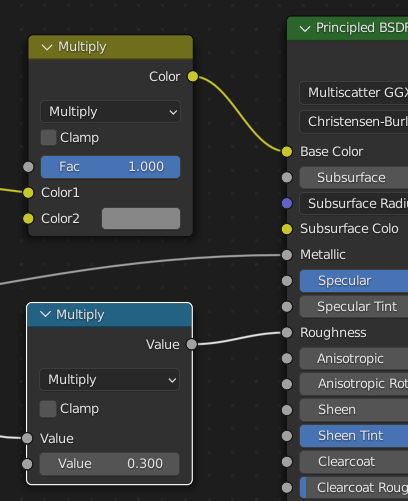
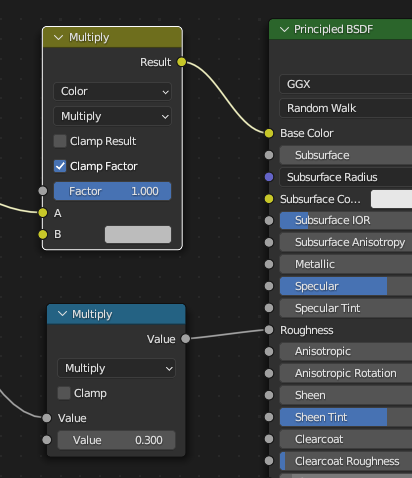
glTF doc: update MixRGB to Mix node

diff --git a/docs/blender_docs/scene_gltf2.rst b/docs/blender_docs/scene_gltf2.rst
@@ -513,7 +513,7 @@ These will be written as factors in the glTF file, which are numbers that are mu
 with the specified image textures. These are not common.
 
 - Use Math node (multiply) for scalar factors. Use second value as factor
-- Use MixRGB (multiply) for color factors. Set Fac to 1, and use Color2 as factors
+- Use Mix node (color / multiply) for color factors. Set Factor to 1, and use Color2 (B) as factors
 
 .. figure:: /images/addons_import-export_scene-gltf2_material-factors.png
 
